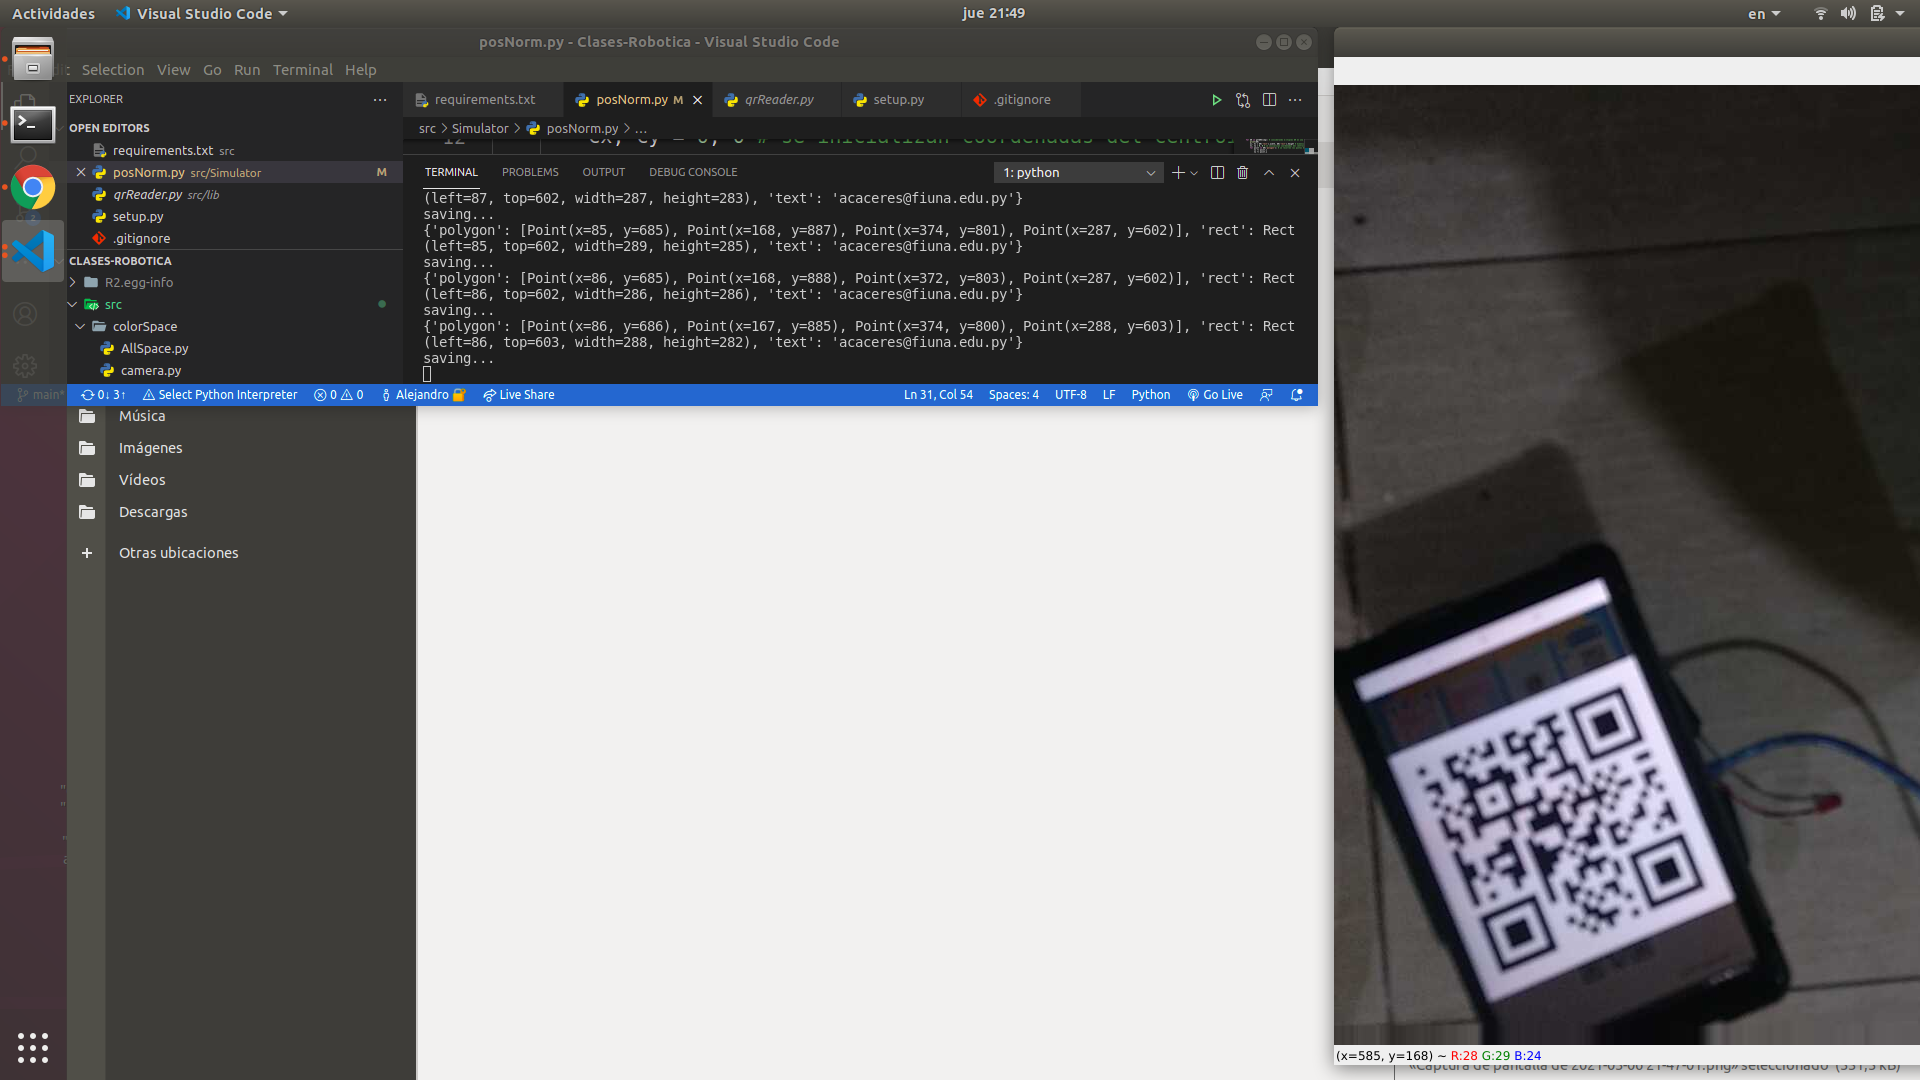
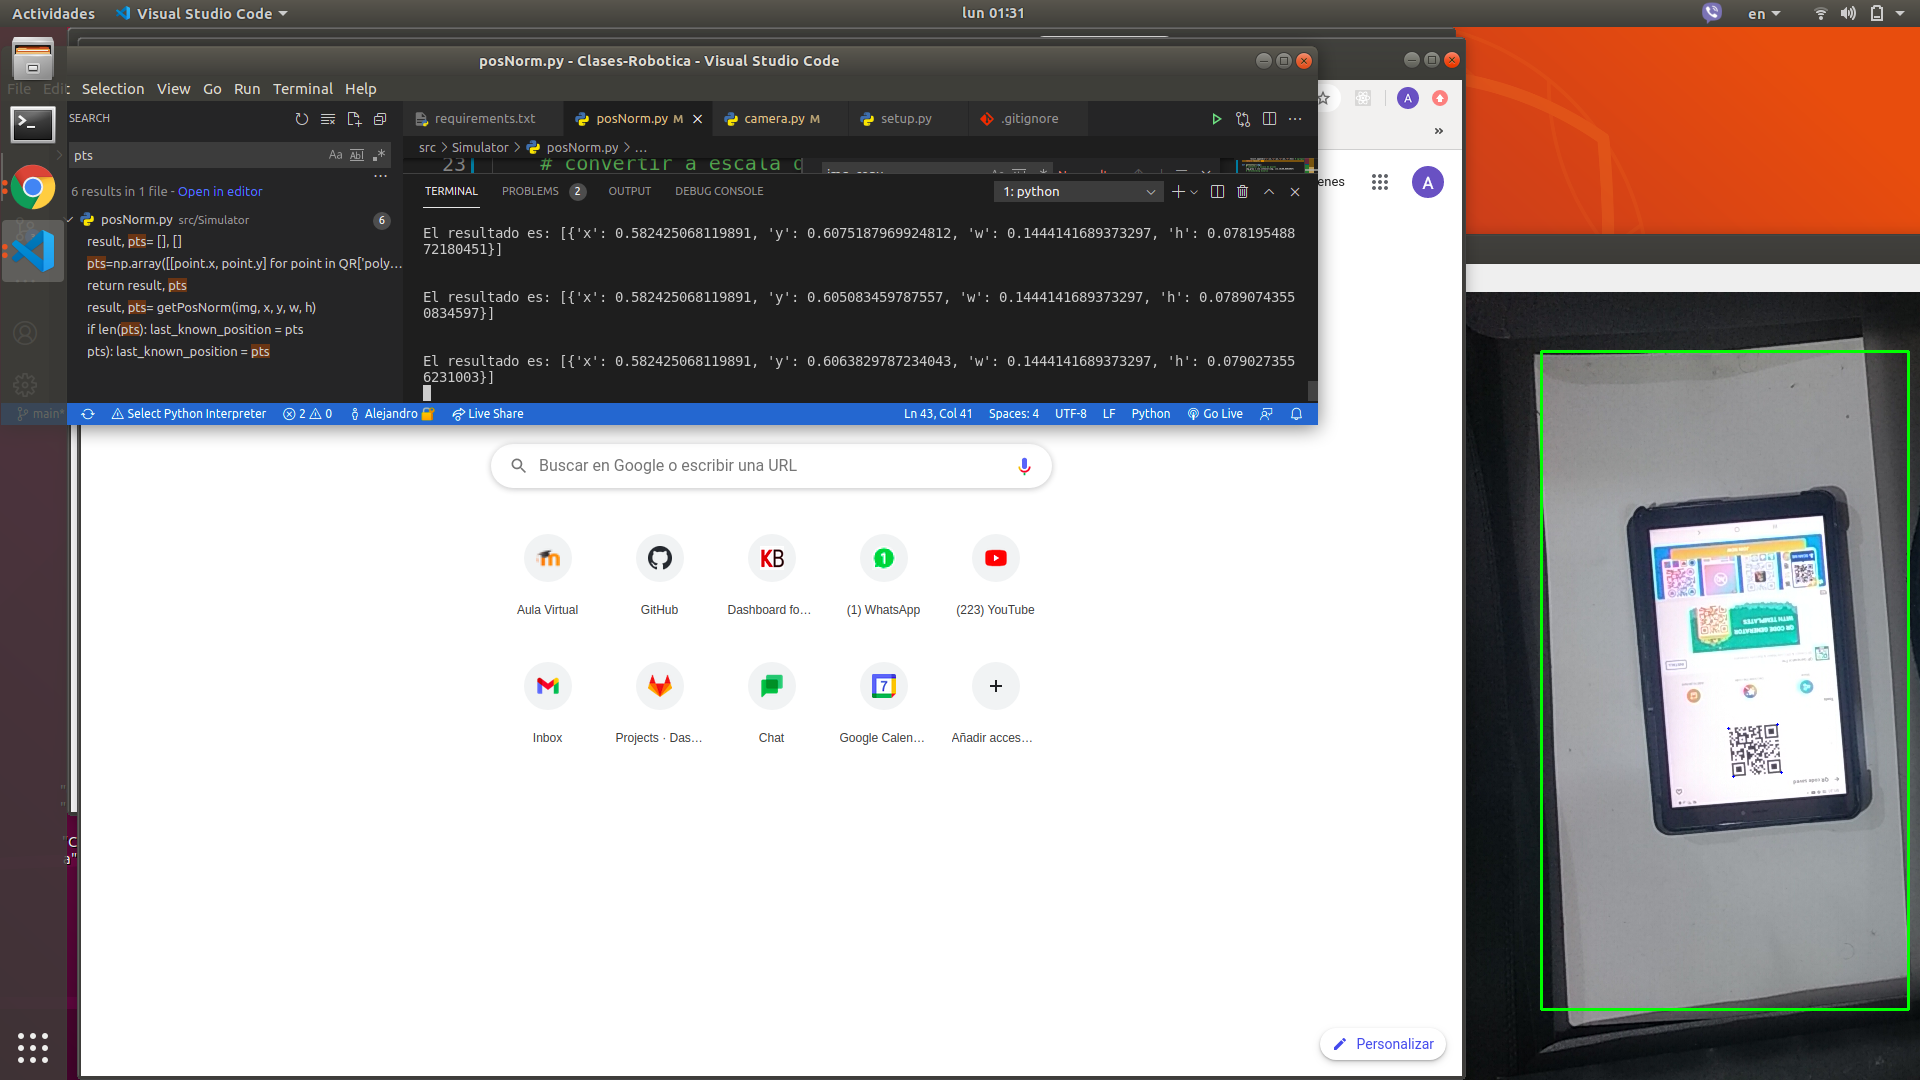
Se resuelve relativo al rectangulo delimitador

diff --git a/src/Simulator/posNorm.py b/src/Simulator/posNorm.py
@@ -3,27 +3,47 @@ import cv2
 import urllib.request
 from src.lib.qrReader import getQRS
 
-def getPosNorm(img):
-    result = []
-    W, H, _ = img.shape
+def getPosNorm(img, xrect, yrect, W, H):
+    result, pts= [], []
     for QR in getQRS(img): # considerando múltiples QR en una imagen
-        print(QR)
         wc, hc = QR['rect'].width, QR['rect'].height # dimensiones del QR
         Cx, Cy = 0, 0 # se inicializan coordenadas del centroide en 0
         for point in QR['polygon']: # se recorren los puntos del polígono del QR
             Cx += point.x
             Cy += point.y
-        Cx/=4; Cy/=4 # se obtiene el centroide
+        pts=np.array([[point.x, point.y] for point in QR['polygon']], np.int32).reshape((-1, 1, 2)) if QR['polygon'] else []
+        Cx/=4; Cy/=4 # se obtiene el centroide absoluto en la imagen
+        Cx-=xrect; Cy-=yrect # se obtienen coordenadas relativas al origen del rectángulo delimitador
         [xn,yn]=[Cx/W,Cy/H] # posición normalizada
         [wn,hn]=[wc/W,hc/H] # tamaño normalizado
         result.append({"x":xn,"y":yn,"w":wn,"h":hn}) # agregando el resultado a la lista
-    return result
+    return result, pts
 
+def getContour(img):
+    # convertir a escala de grises
+    img_gray = cv2.cvtColor(img, cv2.COLOR_BGR2GRAY)
+    # thresholding binario
+    ret, thresh = cv2.threshold(img_gray, 150, 255, cv2.THRESH_BINARY)
+    contours, hierarchy = cv2.findContours(image=thresh, mode=cv2.RETR_EXTERNAL, method=cv2.CHAIN_APPROX_SIMPLE)             
+    image_copy = img.copy() # para dibujar sobre la imagen original
+    c = max(contours, key = cv2.contourArea) # para obtener el contorno más grande
+    x,y,w,h = cv2.boundingRect(c) # se aproxima a un rectángulo
+    # se dibuja en verde el rect. aproximación, ya que la cámara apunta perpendicular al suelo
+    cv2.rectangle(image_copy,(x,y),(x+w,y+h),(0,255,0),2)
+    return image_copy, x, y, w, h
+
+last_known_position=np.array([], np.int32)
 while True:
     url = "http://192.168.100.3:8080/shot.jpg"
-    imgResp=urllib.request.urlopen(url)
+    imgResp=urllib.request.urlopen(url) 
     imgNp=np.array(bytearray(imgResp.read()),dtype=np.uint8)
     img=cv2.imdecode(imgNp,-1)
+    img, x, y, w, h= getContour(img)
+    result, pts= getPosNorm(img, x, y, w, h)
+    print("\n\nEl resultado es:", result)
+    if len(pts): last_known_position = pts
+    cv2.polylines(img, last_known_position, True, (255, 0, 0), 2) # quiero dibujar el QR pero aún no me sale
     cv2.imshow('test',img)
-    print(getPosNorm(img))
-    if ord('q')==cv2.waitKey(10): exit(0)
+    if ord('q')==cv2.waitKey(10):
+        break
+        exit(0)
